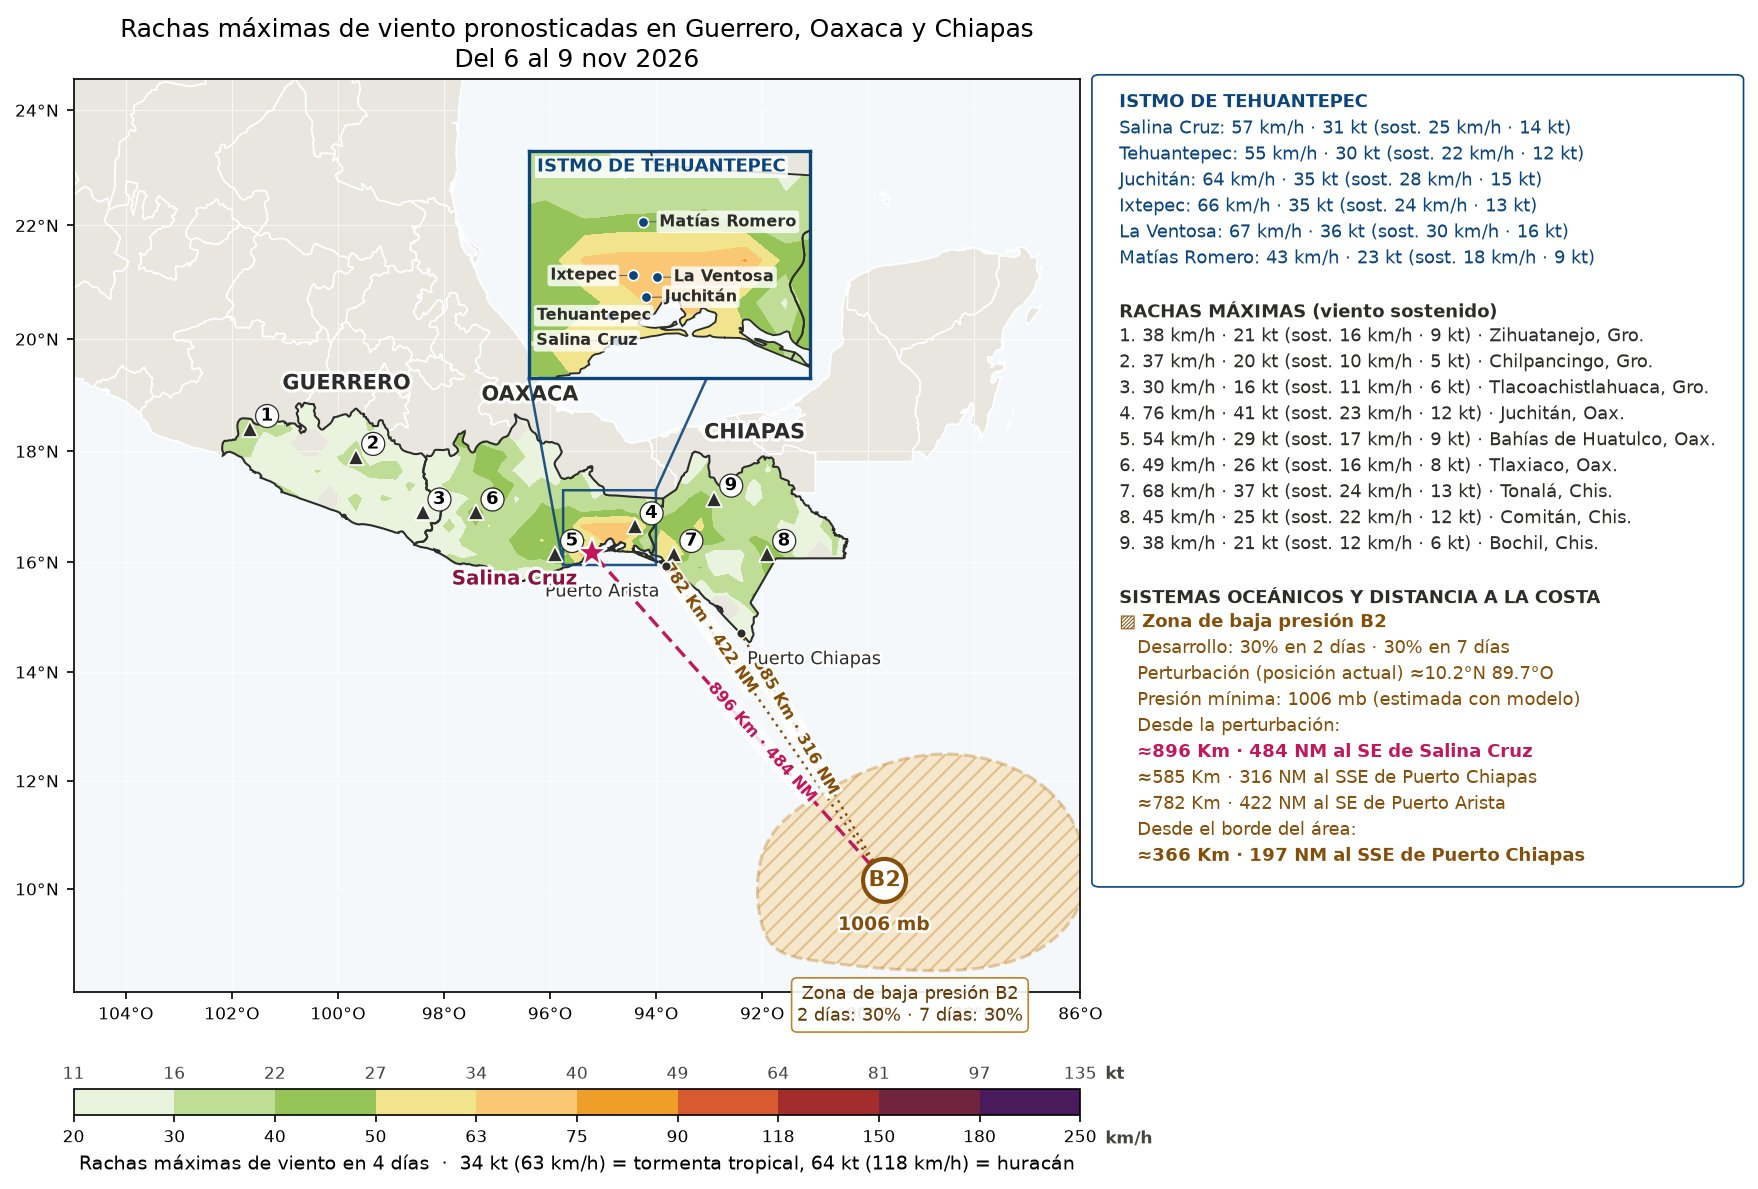
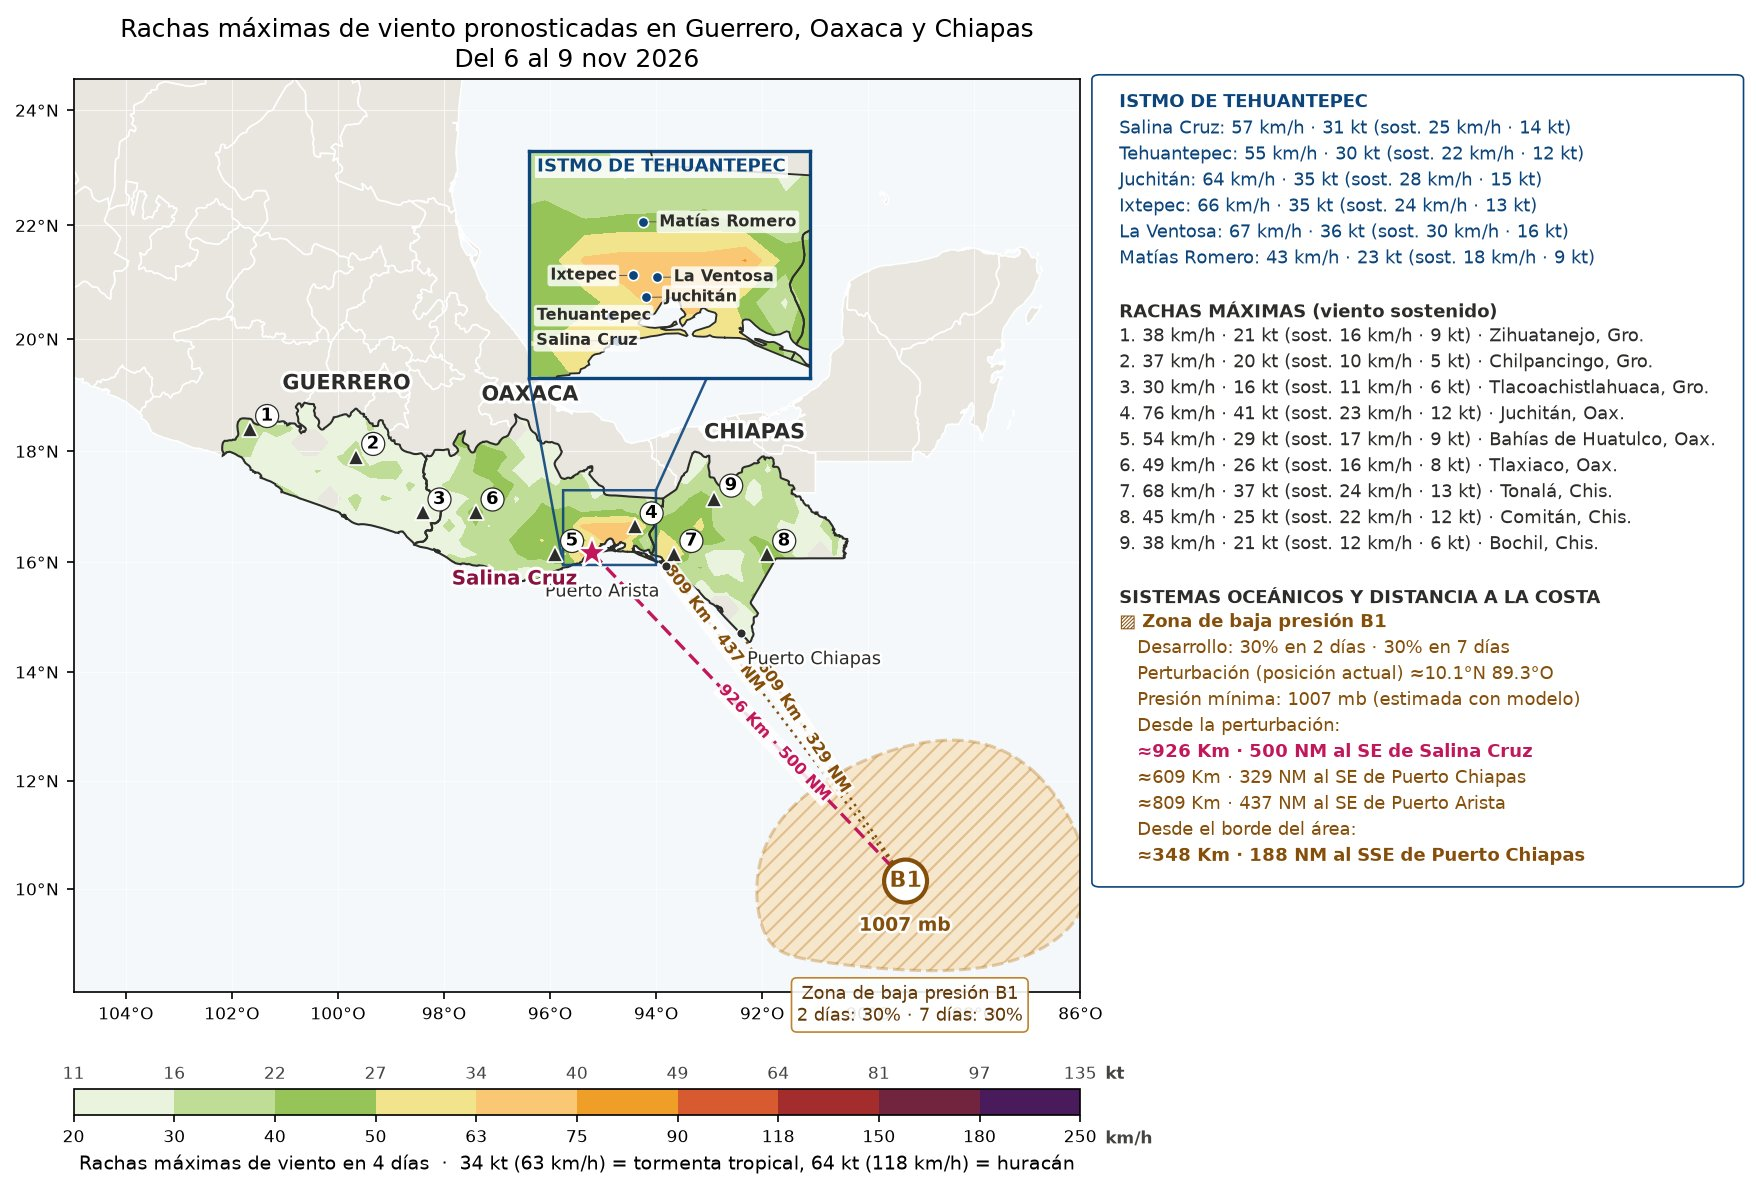
Monitor 06/11 18:07 (mapas nuevos)

diff --git a/index.html b/index.html
@@ -62,7 +62,7 @@ pre{overflow-x:auto;font-size:.75rem;background:var(--bg);padding:10px;border-ra
 <section class="t" id="sec_log"><details><summary>Registro (últimas líneas)</summary><pre id="log"></pre></details></section>
 </main>
 <div id="zoom"><img alt=""></div>
-<script id="datos" type="application/json">{"generado": "2026-11-06T17:27:04.006691", "ultima_revision": "2026-11-06T17:27:03.946622", "decision": "sin cambios", "ultima_imagen": "2026-11-06T14:50:22.502540", "motivo_imagen": "cambios acumulados en 3 h: modelo", "pendientes": [], "intervalo_h": 3, "resumen": {"ciclones": {}, "zonas": [{"lat": 10.2, "lon": -89.7, "n": "2", "p2": 30, "p7": 30}]}, "historial": [{"fecha": "2026-11-04T17:41:02.935370", "motivo": "CAMBIO SIGNIFICATIVO: zona de baja presión: 30/50% → 40/60% (2/7 días)"}, {"fecha": "2026-11-04T20:50:31.287696", "motivo": "cambios acumulados en 3 h: modelo"}, {"fecha": "2026-11-05T02:30:11.384999", "motivo": "cambios acumulados en 3 h: modelo"}, {"fecha": "2026-11-05T05:57:19.037606", "motivo": "cambios acumulados en 3 h: zonas"}, {"fecha": "2026-11-05T09:10:25.609675", "motivo": "cambios acumulados en 3 h: modelo"}, {"fecha": "2026-11-05T11:47:18.609423", "motivo": "CAMBIO SIGNIFICATIVO: zona de baja presión: 40/60% → 40/50% (2/7 días)"}, {"fecha": "2026-11-05T15:00:14.907001", "motivo": "cambios acumulados en 3 h: modelo"}, {"fecha": "2026-11-05T17:47:16.654961", "motivo": "CAMBIO SIGNIFICATIVO: zona de baja presión: 40/50% → 40/40% (2/7 días)"}, {"fecha": "2026-11-05T21:00:07.785836", "motivo": "cambios acumulados en 3 h: modelo"}, {"fecha": "2026-11-06T00:07:18.516460", "motivo": "cambios acumulados en 3 h: zonas"}, {"fecha": "2026-11-06T03:20:16.865587", "motivo": "cambios acumulados en 3 h: modelo"}, {"fecha": "2026-11-06T06:27:18.371045", "motivo": "cambios acumulados en 3 h: zonas"}, {"fecha": "2026-11-06T09:40:10.112780", "motivo": "cambios acumulados en 3 h: modelo"}, {"fecha": "2026-11-06T11:37:17.169772", "motivo": "CAMBIO SIGNIFICATIVO: zona de baja presión: 40/40% → 30/30% (2/7 días)"}, {"fecha": "2026-11-06T14:50:22.502540", "motivo": "cambios acumulados en 3 h: modelo"}], "imagenes": {"lluvia": {"src": "lluvia.jpg?v=202611061450", "fecha": "2026-11-06T14:50:13.742473"}, "viento": {"src": "viento.jpg?v=202611061450", "fecha": "2026-11-06T14:50:20.488281"}}, "log": [], "umbral_av": 50, "umbral_mal": 110}</script>
+<script id="datos" type="application/json">{"generado": "2026-11-06T18:07:20.160612", "ultima_revision": "2026-11-06T18:07:20.063705", "decision": "imágenes generadas", "ultima_imagen": "2026-11-06T18:07:20.063705", "motivo_imagen": "cambios acumulados en 3 h: zonas", "pendientes": [], "intervalo_h": 3, "resumen": {"ciclones": {}, "zonas": [{"lat": 10.1, "lon": -89.3, "n": "1", "p2": 30, "p7": 30}]}, "historial": [{"fecha": "2026-11-04T20:50:31.287696", "motivo": "cambios acumulados en 3 h: modelo"}, {"fecha": "2026-11-05T02:30:11.384999", "motivo": "cambios acumulados en 3 h: modelo"}, {"fecha": "2026-11-05T05:57:19.037606", "motivo": "cambios acumulados en 3 h: zonas"}, {"fecha": "2026-11-05T09:10:25.609675", "motivo": "cambios acumulados en 3 h: modelo"}, {"fecha": "2026-11-05T11:47:18.609423", "motivo": "CAMBIO SIGNIFICATIVO: zona de baja presión: 40/60% → 40/50% (2/7 días)"}, {"fecha": "2026-11-05T15:00:14.907001", "motivo": "cambios acumulados en 3 h: modelo"}, {"fecha": "2026-11-05T17:47:16.654961", "motivo": "CAMBIO SIGNIFICATIVO: zona de baja presión: 40/50% → 40/40% (2/7 días)"}, {"fecha": "2026-11-05T21:00:07.785836", "motivo": "cambios acumulados en 3 h: modelo"}, {"fecha": "2026-11-06T00:07:18.516460", "motivo": "cambios acumulados en 3 h: zonas"}, {"fecha": "2026-11-06T03:20:16.865587", "motivo": "cambios acumulados en 3 h: modelo"}, {"fecha": "2026-11-06T06:27:18.371045", "motivo": "cambios acumulados en 3 h: zonas"}, {"fecha": "2026-11-06T09:40:10.112780", "motivo": "cambios acumulados en 3 h: modelo"}, {"fecha": "2026-11-06T11:37:17.169772", "motivo": "CAMBIO SIGNIFICATIVO: zona de baja presión: 40/40% → 30/30% (2/7 días)"}, {"fecha": "2026-11-06T14:50:22.502540", "motivo": "cambios acumulados en 3 h: modelo"}, {"fecha": "2026-11-06T18:07:20.063705", "motivo": "cambios acumulados en 3 h: zonas"}], "imagenes": {"lluvia": {"src": "lluvia.jpg?v=202611061807", "fecha": "2026-11-06T18:07:12.754697"}, "viento": {"src": "viento.jpg?v=202611061807", "fecha": "2026-11-06T18:07:18.350284"}}, "log": [], "umbral_av": 50, "umbral_mal": 110}</script>
 <script>
 const D = JSON.parse(document.getElementById("datos").textContent);
 const $ = id => document.getElementById(id);
